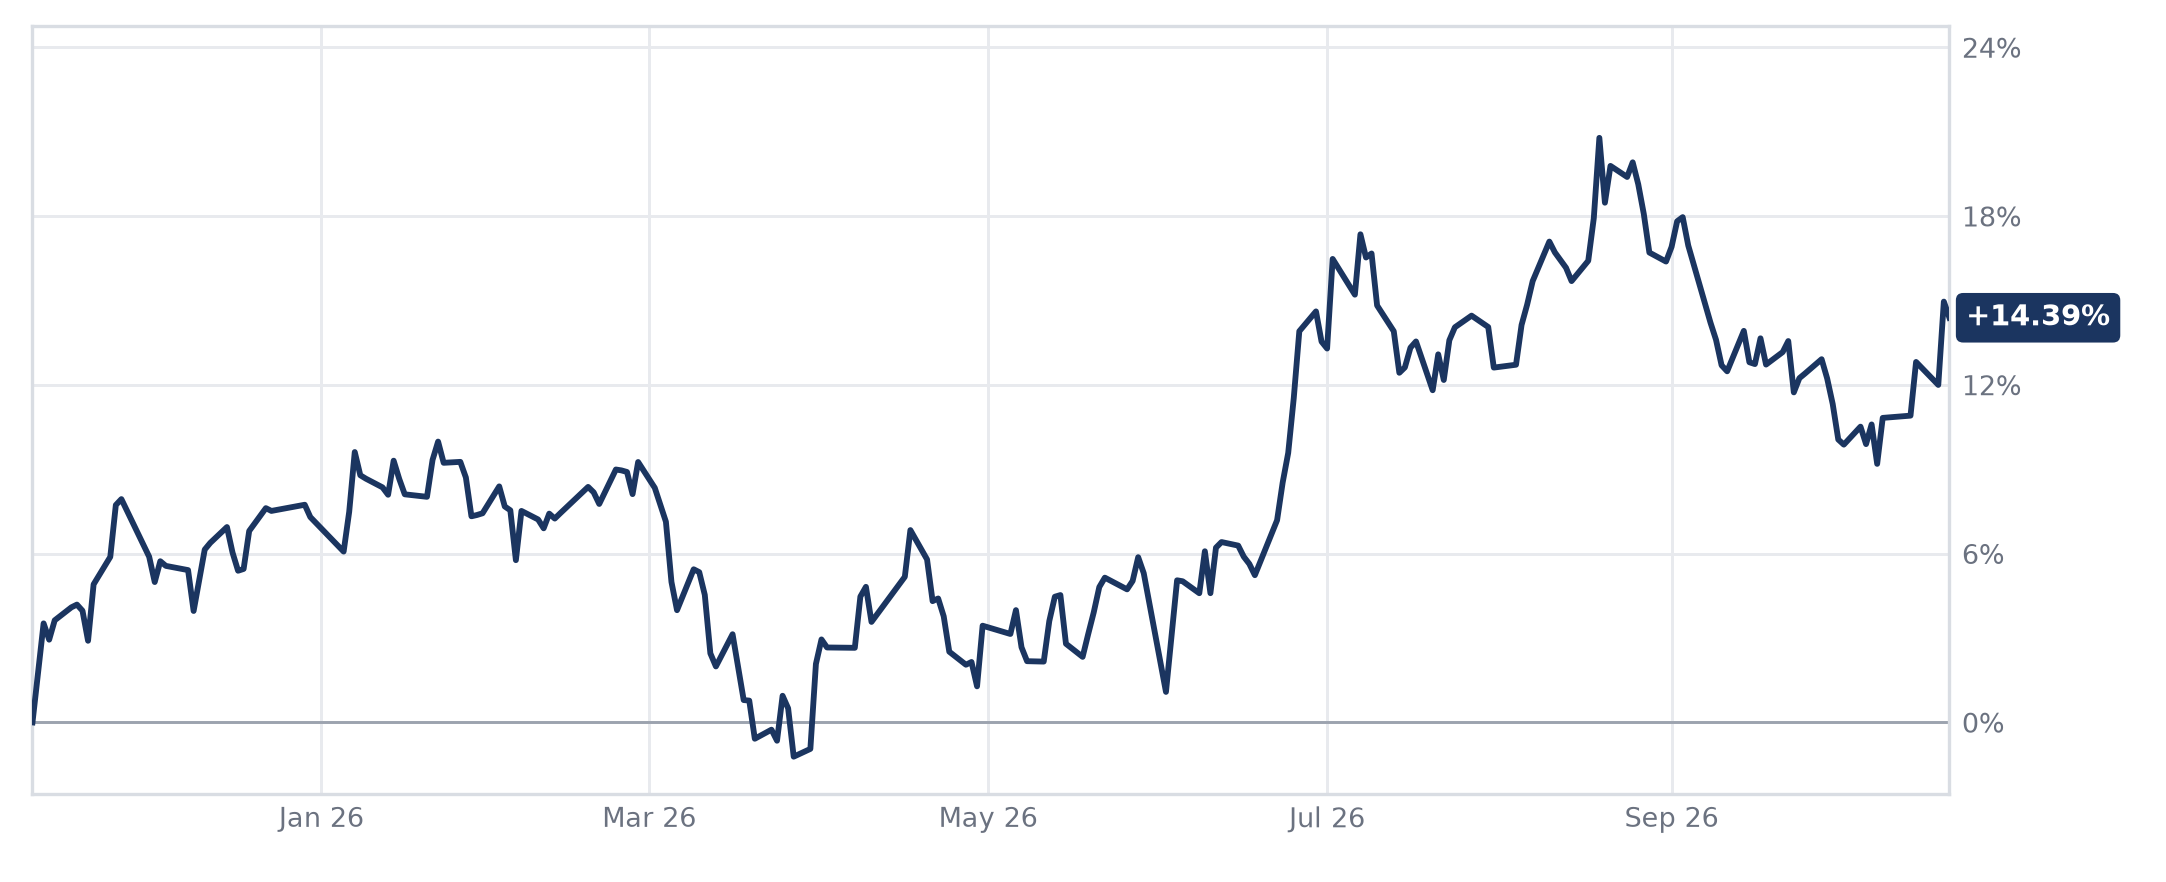
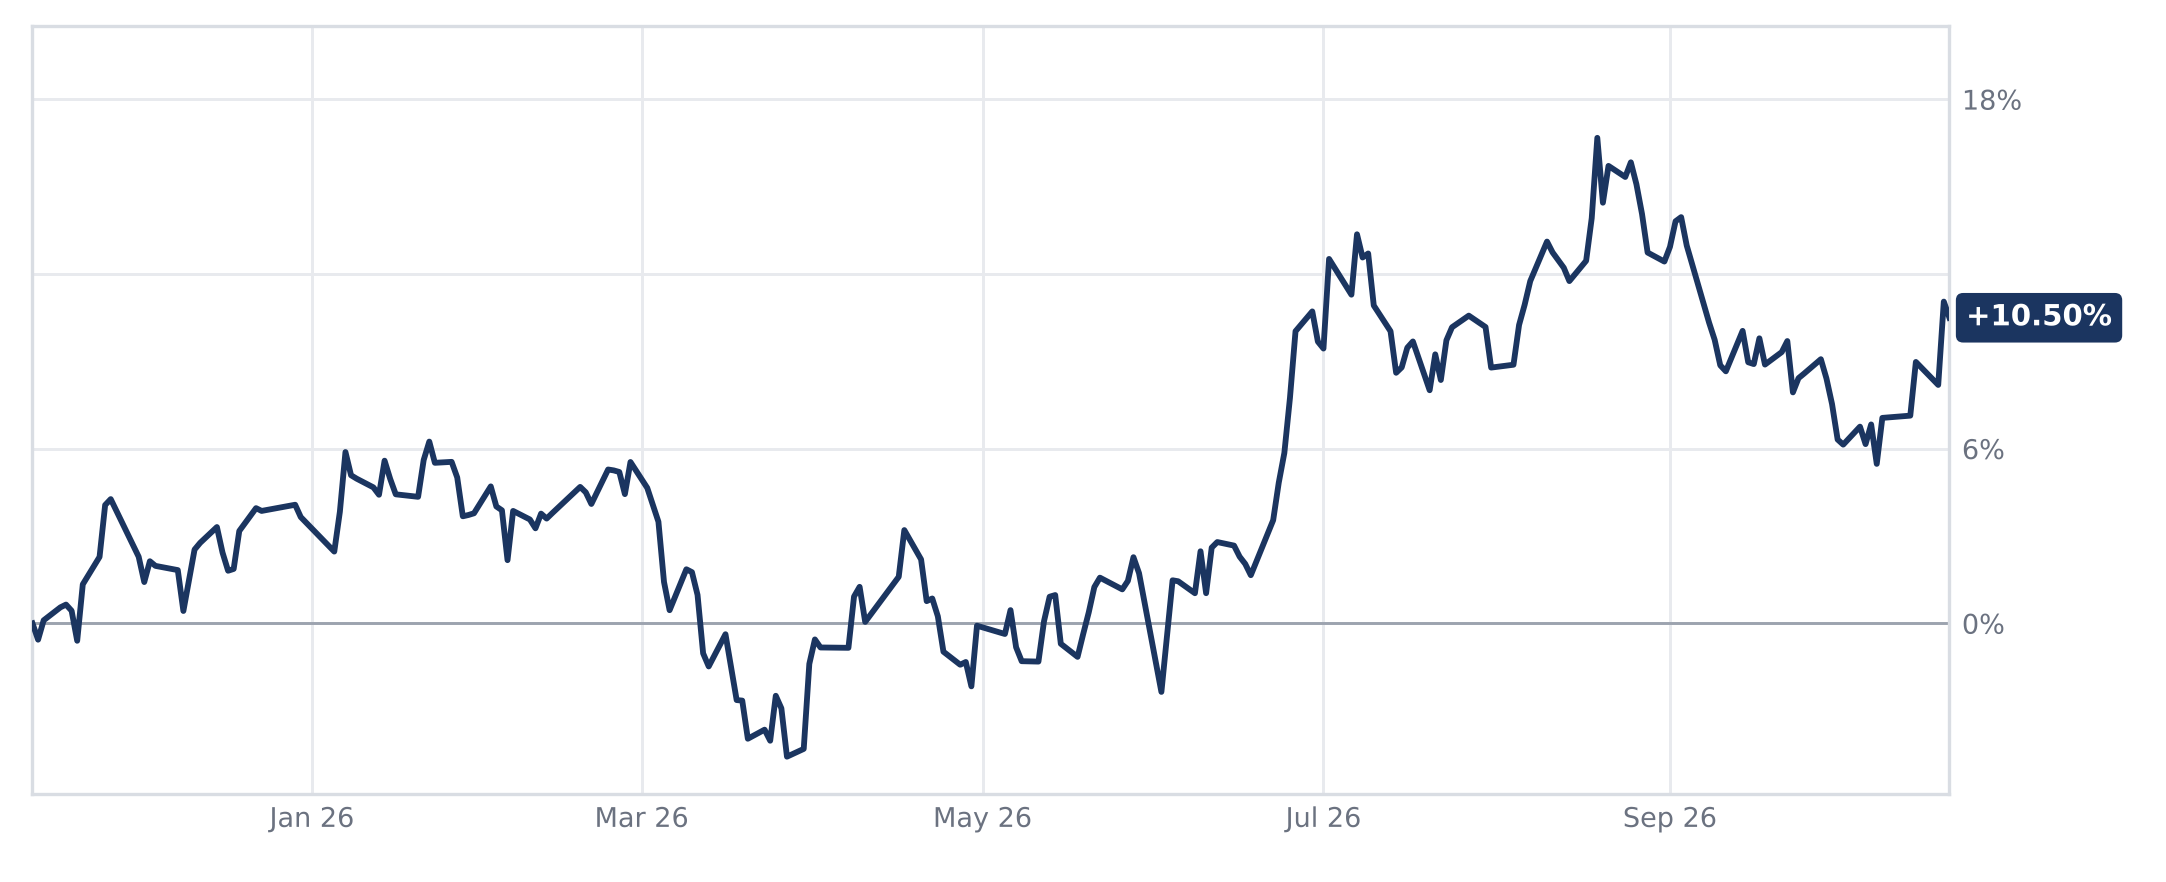
เริ่มกราฟที่ NAV วันทำการถัดจากวันแนะนำ
Claude-Session: https://claude.ai/code/session_012hrKtuTeyfk9EuUED5ZPQ8

diff --git a/docs/index.html b/docs/index.html
@@ -169,12 +169,11 @@ const fmt = (v) => v == null ? "–" : (v > 0 ? "+" : "") + v.toFixed(2) + "%";
 const cls = (v) => v == null ? "" : v >= 0 ? "pos" : "neg";
 const thDate = (iso) => { if (!iso) return "–"; const [y,m,d] = iso.split("-"); return `${d}/${m}/${y}`; };
 
-/* NAV วันเริ่มต้น = NAV ที่ 0% บนกราฟ ถ้าวันแนะนำไม่มี NAV จะเป็นวันทำการก่อนหน้า (บอกวันที่กำกับไว้) */
+/* NAV วันเริ่มต้น = NAV ที่ 0% บนกราฟ = วันทำการถัดจากวันแนะนำ */
 const baseDate = (f) => f.base_date || f.recommend_date;
 function startNavText(f) {
   if (f.base_nav == null) return "";
-  const d = baseDate(f);
-  return ` · NAV วันเริ่มต้น ${f.base_nav.toFixed(4)}` + (d && d !== f.recommend_date ? ` (ณ ${thDate(d)})` : "");
+  return ` · NAV วันเริ่มต้น ${f.base_nav.toFixed(4)} (ณ ${thDate(baseDate(f))})`;
 }
 
 function toast(msg) {

diff --git a/scripts/build_charts.py b/scripts/build_charts.py
@@ -75,13 +75,20 @@ def pct(a, b):
     return None if a is None or b is None or b == 0 else (a / b - 1) * 100
 
 
+def start_date(s: pd.Series, rec):
+    """วันเริ่มต้น = วันแรกที่มี NAV หลังวันแนะนำ (ไม่รวมวันแนะนำ)"""
+    after = s[s.index > pd.Timestamp(rec)]
+    return after.index[0] if len(after) else s.index[-1]
+
+
 def returns(s: pd.Series, rec):
     last_d = s.index[-1]
     last = float(s.iloc[-1])
     out = {"as_of": last_d.date().isoformat(), "nav": round(last, 4)}
     for k, days in [("1W", 7), ("1M", 30), ("3M", 91), ("6M", 182), ("1Y", 365)]:
         out[k] = pct(last, nav_on_or_before(s, last_d - timedelta(days=days)))
-    out["since_rec"] = pct(last, nav_on_or_before(s, rec)) if rec else None
+    # ตั้งแต่แนะนำ: เทียบกับ NAV วันเริ่มต้น (วันทำการถัดจากวันแนะนำ) ให้ตรงกับ 0% บนกราฟ
+    out["since_rec"] = pct(last, float(s[start_date(s, rec)])) if rec else None
     return out
 
 
@@ -275,11 +282,11 @@ def main():
             "info": report.get("funds", {}).get(f["name"], {}),
         }
         if f["name"] in series:
-            # เริ่มกราฟที่ NAV วันแนะนำ (หรือวันทำการก่อนหน้าถ้าวันนั้นไม่มี NAV)
+            # เริ่มกราฟที่ NAV วันทำการถัดจากวันแนะนำ (แนะนำ 11/11 → เริ่ม 12/11)
+            # ถ้ายังไม่มี NAV หลังวันแนะนำ (เพิ่งแนะนำ) ใช้ NAV ล่าสุดที่มีไปก่อน
             s0 = series[f["name"]]
             if f["rec"]:
-                before = s0[s0.index <= pd.Timestamp(f["rec"])]
-                start = before.index[-1] if len(before) else s0.index[0]
+                start = start_date(s0, f["rec"])
             else:
                 start = max(pd.Timestamp(today - timedelta(days=LOOKBACK_DAYS)), s0.index[0])
             img = f"charts/{slug(f['name'])}.png"

diff --git a/README.md b/README.md
@@ -17,7 +17,7 @@
 | คอลัมน์ | ตัวอย่าง | หมายเหตุ |
 |---|---|---|
 | `fund` | `KKP GHC-A` | ชื่อย่อกอง หรือชื่อ class ตามที่ ก.ล.ต. ใช้ (ไม่สนช่องว่าง/ขีด/ตัวพิมพ์) |
-| `recommend_date` | `2025-11-11` | วันที่แนะนำ กราฟเริ่มจากวันนี้ (0%) และใช้คำนวณผลตอบแทน "ตั้งแต่แนะนำ" |
+| `recommend_date` | `2025-11-11` | วันที่แนะนำ กราฟเริ่ม (0%) ที่ NAV วันทำการถัดไป เช่น แนะนำ 11/11 → เริ่ม 12/11 และใช้ NAV นั้นคำนวณผลตอบแทน "ตั้งแต่แนะนำ" |
 | `compare_with` | `KT-EMEQ-A; SCBEMEQA` | กองเปรียบเทียบ คั่นด้วย `;` (ไม่ใส่ก็ได้) |
 
 ระบบหา `proj_id` และ class ให้เองจาก `/v2/fund/general-info/profiles`
